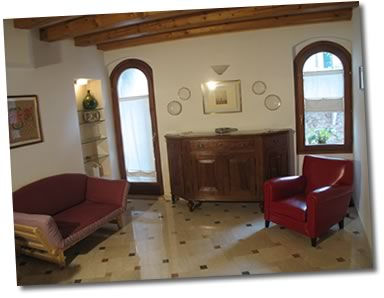
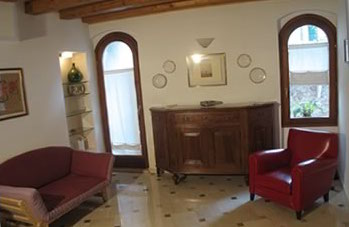
changed pictures float

diff --git a/public/show.html b/public/show.html
@@ -21,24 +21,26 @@
     <div class="panel">
 
         <div class="left">
-            <img src="./images/33449157_e.jpg" alt="" />
+            <img src="./images/33449157_e.jpg" alt="" class="picture-R">
             <h5>Entrance</h5>
         </div>
 
-
-        <p>
-            <strong>Residenza Carducci</strong> is a family-owned four story house, substantially renovated in 1556 with parts dating from the 14th century.</p>
-        <p>The building is protected by the National Heritage and has been recently renovated both internally and on the back courtyard.</p>
-        <p>It was one of the first inns in Verona, run by the current owner's grandparents.</p>
-        <p>The two suites are on the first floor, independent but adjacent, separated by the laundry room. The top two floors are occupied by the owners. </p>
-        <p>The ground floor, formerly the inn's restaurant, now consists of a small courtyard, office, vaulted entryway and garage area.</p>
+        <div class="paragraph">
+            <p>
+                <strong>Residenza Carducci</strong> is a family-owned four story house, substantially renovated in 1556 with parts dating from the 14th century. The building is protected by the National Heritage and has been recently renovated both internally
+                and on the back courtyard. It was one of the first inns in Verona, run by the current owner's grandparents.</p>
+            <p>The two suites are on the first floor, independent but adjacent, separated by the laundry room. The top two floors are occupied by the owners. The ground floor, formerly the inn's restaurant, now consists of a small courtyard, office, vaulted
+                entryway and garage area.</p>
+        </div>
         <div class="right">
-            <img src="./images/card_salone.jpg" alt="">
+            <img src="./images/card_salone.jpg" alt="" class="picture-L">
             <h5>Suite Nord</h5>
         </div>
-        <p>The suites are locatend in the historical part of town called Veronetta, on the left side of the Adige river.</p>
-        <p>Veronetta is where the first settlements of the city were and is the home of the roman theatre, the Giardino Giusti and Castel San Pietro.</p>
-
+        <div class="paragraph">
+            <p>The suites are located in the historical part of town called Veronetta, on the left side of the Adige river. Veronetta is where the first settlements of the city were and is the home of the roman theatre, the Giardino Giusti and Castel San
+                Pietro.
+            </p>
+        </div>
 
 
         <div class="standalone">
@@ -51,10 +53,10 @@
 
     <div class="panel">
         <div class="left">
-            <img src="./images/affitto_verona_sala1.jpg" alt="">
+            <img src="./images/ResidenzaVerazzano.jpg" alt="" class="picture-R">
             <h5>Residenza Verazzano</h5>
         </div>
-        <div>
+        <div class="paragraph">
             <p>
                 <strong>Residenza Verazzano</strong> is a large and modern 3 bedrooms apartment located just outside the walls of the ancient city of Verona, on the top story of a building in a quiet and well-served residential quarter called “quartiere catena”.
             </p>
@@ -64,11 +66,11 @@
         </div>
 
         <div class="right">
-            <img src="images/torre_catena_verona.jpg" alt="">
+            <img src="images/TorreCatena_e0.jpg" alt="" class="picture-L">
             <h5>Torre Catena</h5>
         </div>
 
-        <div>
+        <div class="paragraph">
             <p>In the winter the apartment is fine for guests in Verona for interim work, holidays, business or who attend the city’s theaters for the winter Symphonic and Opera seasons. It is also convenient for visitors and participants in Verona Fairs
                 (www.veronafiere.it). </p>
             <p>In the summer the historic center of Verona, an enjoyable walk away passing by the Basilica of San Zeno or over the Castelvecchio bridge, is where guests can enjoy the Arena Opera Season (www.arena.it) and the many summer theater and art events

diff --git a/public/show_single.html b/public/show_single.html
@@ -79,13 +79,12 @@
             </div>
         </div>
 
-        <div id="address">
-            <p>{{bbs.apartments[bbs.myParams].address.street}}</p>
-            <p>{{bbs.apartments[bbs.myParams].address.City}}</p>
-            <p>{{bbs.apartments[bbs.myParams].address.Zip}}</p>
-            <p>{{bbs.apartments[bbs.myParams].address.Country}}</p>
+        <div id="address" align="center">
+            <p>{{bbs.apartments[bbs.myParams].address.street}},
+            {{bbs.apartments[bbs.myParams].address.City}}</p>
+            <p>{{bbs.apartments[bbs.myParams].address.Zip}}, {{bbs.apartments[bbs.myParams].address.Country}}</p>
             <p>{{bbs.apartments[bbs.myParams].address.Tel}}</p>
-            <p>{{bbs.apartments[bbs.myParams].address.Email}}</p>
+            <a href="mailto:{{bbs.apartments[bbs.myParams].address.Email}}">{{bbs.apartments[bbs.myParams].address.Email}}</a>
             <!-- {{"toggle contact form"}} -->
         </div>
 

diff --git a/public/css/style.css b/public/css/style.css
@@ -117,14 +117,33 @@ iframe {
 }
 .left {
     float: left;
+    margin: 10px;
 }
 .right {
     float:right;
+    margin: 10px;
 }
 
 .standalone {
     clear:both;
 }
+.paragraph {
+    text-align: justify;
+    margin: 10px;
+}
+.picture-R {
+    box-shadow: 5px 5px 5px #777777;
+    margin-bottom: 10px;
+    margin-right: 10px;
+    transform: rotate(-2deg);
+}
+.picture-L {
+    box-shadow: 5px 5px 5px #777777;
+    margin-bottom: 10px;
+    margin-left: 5px;
+    transform: rotate(-2deg);
+}
+
 /*---------------- show single -----------*/
 
 #amenities {
